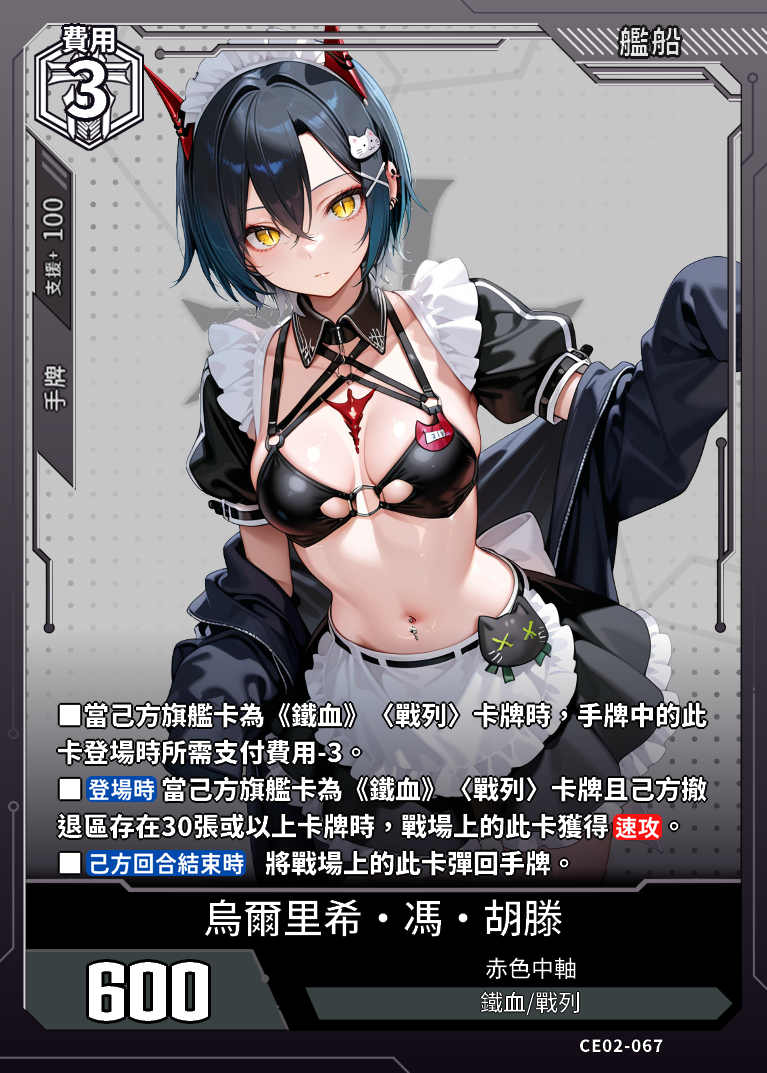
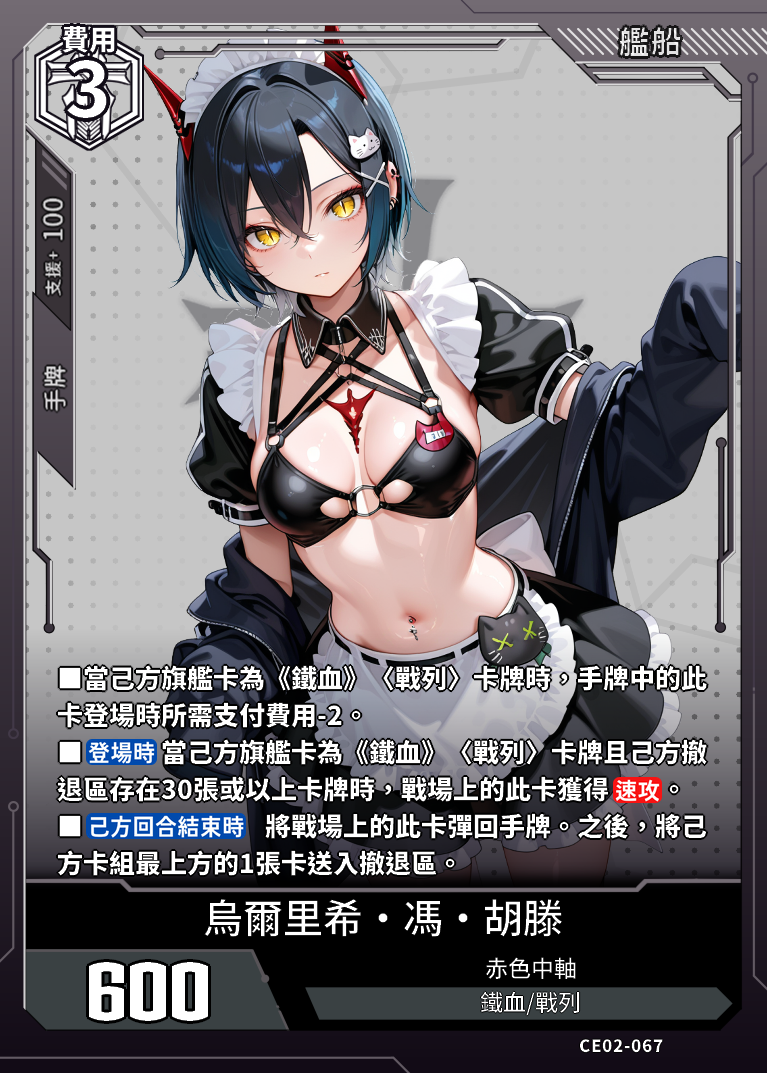
修改胡滕過強

Changed region(s): [[0.06, 0.6151, 0.9296, 0.8304]]

diff --git a/data.js b/data.js
@@ -25516,7 +25516,7 @@ const cards = [
             "支援範圍": "手牌",
             "支援值": "100"
         },
-        "card_effect": "■當己方旗艦卡為《鐵血》〈戰列〉卡牌時，手牌中的此卡登場時所需支付費用-3。■【登場時】當己方旗艦卡為《鐵血》〈戰列〉卡牌且己方撤退區存在30張或以上卡牌時，戰場上的此卡獲得【速攻】。■【己方回合結束時】將戰場上的此卡彈回手牌。",
+        "card_effect": "■當己方旗艦卡為《鐵血》〈戰列〉卡牌時，手牌中的此卡登場時所需支付費用-2。■【登場時】當己方旗艦卡為《鐵血》〈戰列〉卡牌且己方撤退區存在30張或以上卡牌時，戰場上的此卡獲得【速攻】。■【己方回合結束時】將戰場上的此卡彈回手牌。之後，將己方卡組最上方的1張卡送入撤退區。",
         "acquisition_method": "CE02-預覽測試"
     },
 	{
